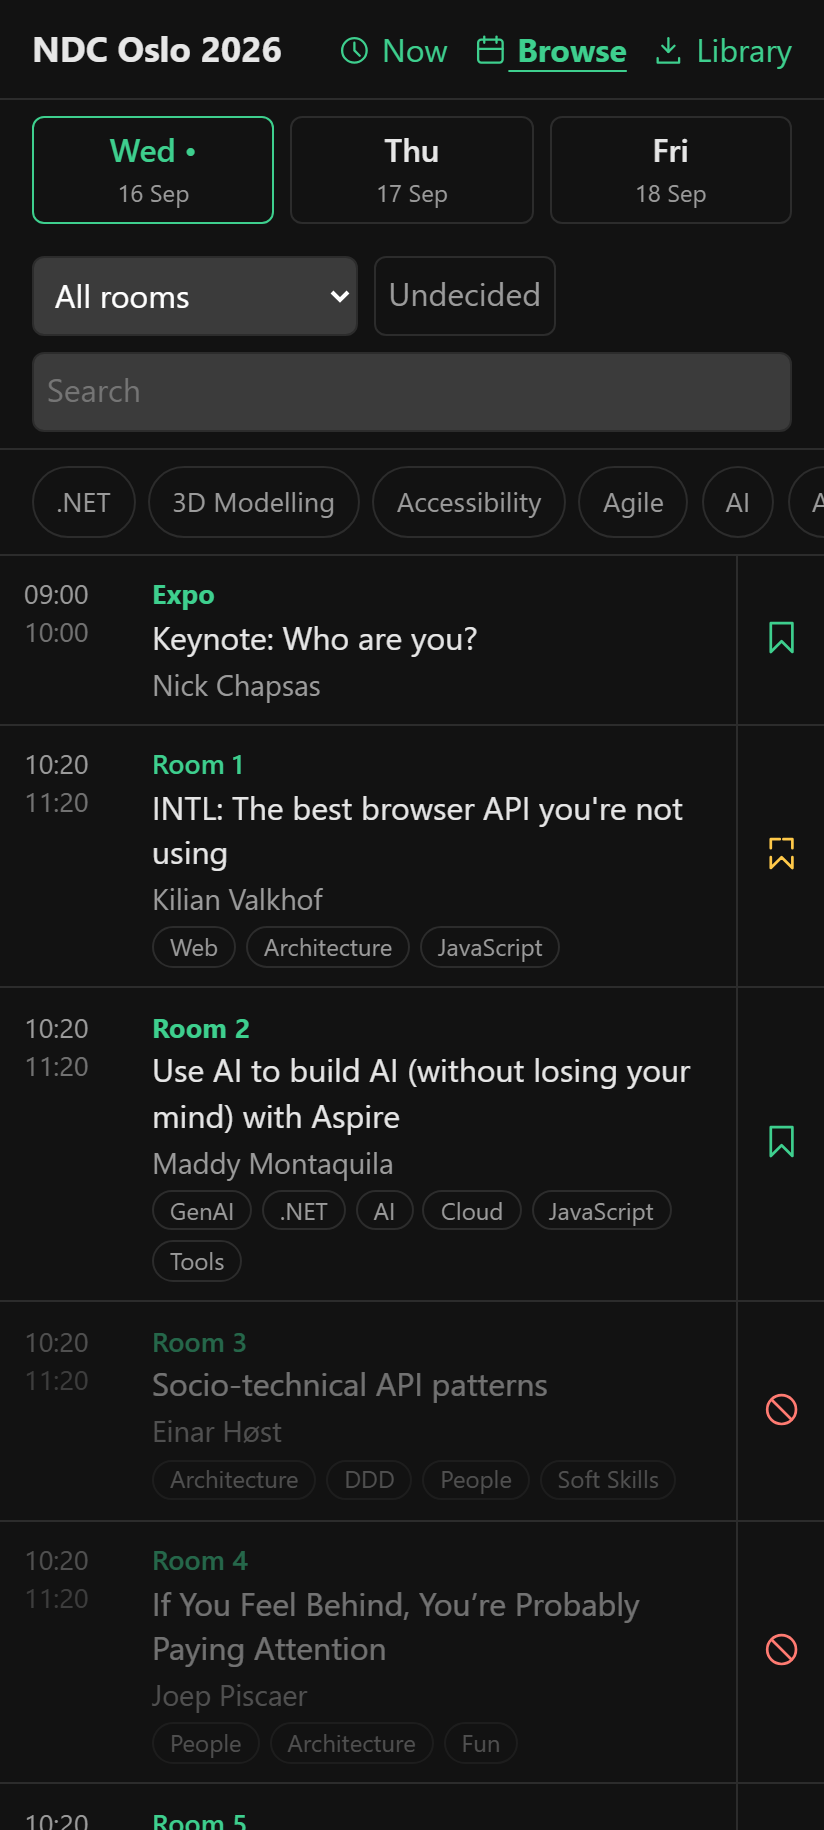
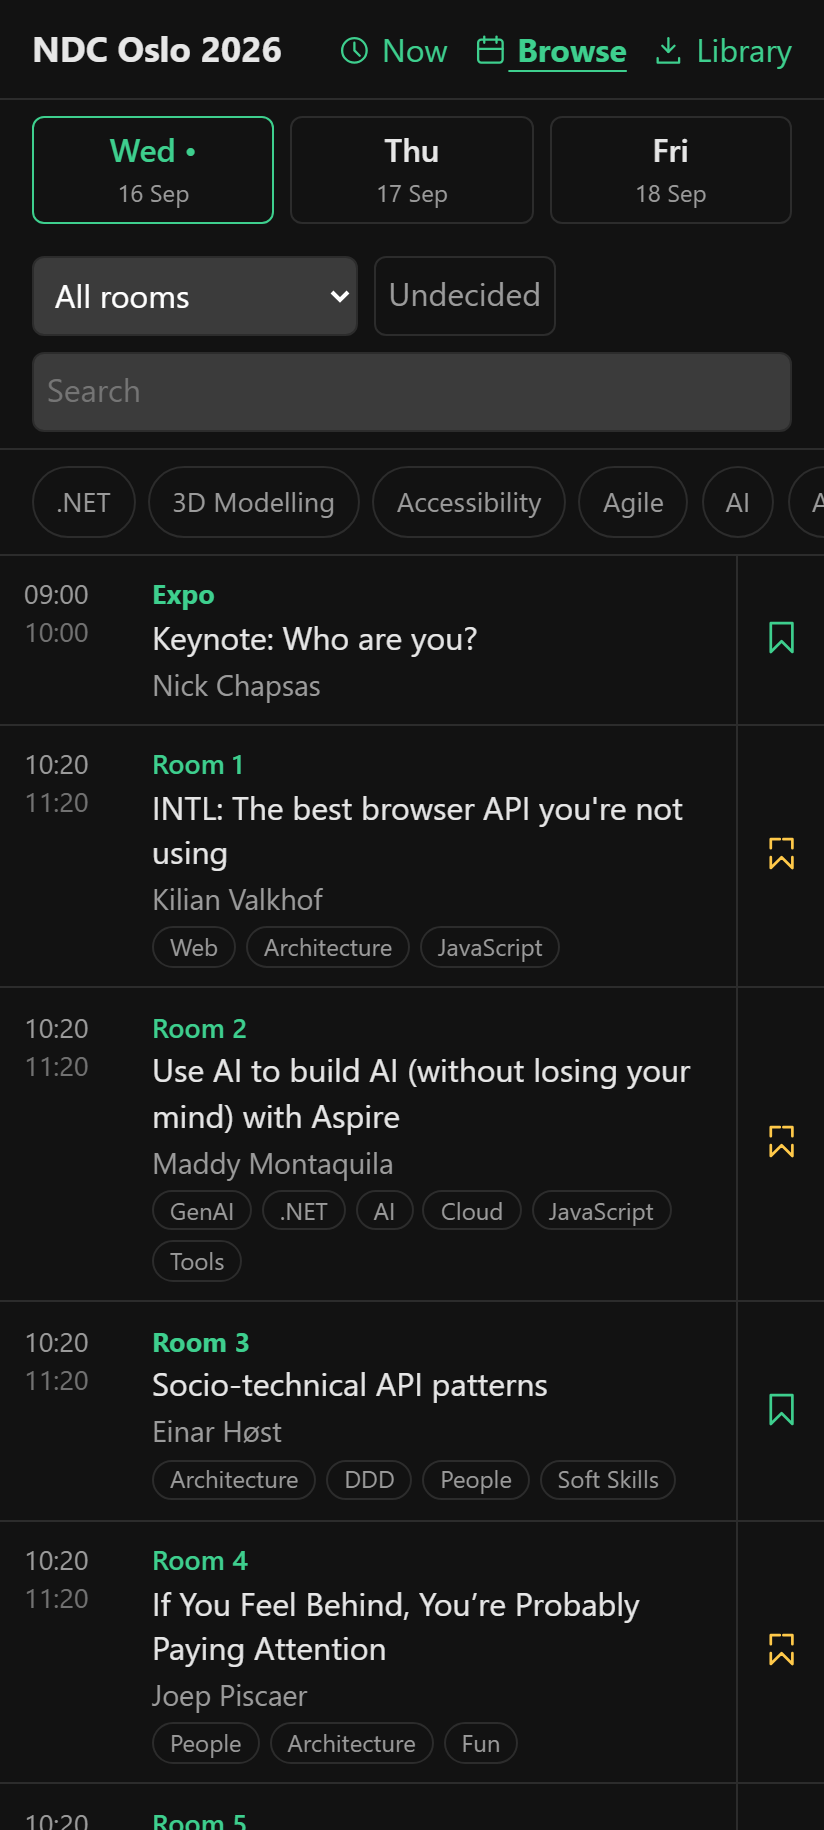
docs: README screenshots use BK's real day-1 plan; all views shown
demo-plan.js now mirrors the actual phone plan (picks per slot, maybe
counts matching the +N badges; TBA and the LLM talk avoided so the slot
view shows all four groups). Glance dark+light is the hero comparison
pair; slot (the 13:40 Non-Blocking Continuous Code Reviews slot), event
detail (same session), and browse follow the feature list; a new library
screenshot sits in the provider section. Clock frozen at 13:50 so Now =
the Non-Blocking pick.

diff --git a/tools/demo-plan.js b/tools/demo-plan.js
@@ -1,4 +1,5 @@
-// Seed a realistic NDC Oslo day-1 plan into IndexedDB for README screenshots.
+// Seed BK's real NDC Oslo day-1 plan into IndexedDB for README screenshots
+// (picks match his phone; maybe counts match the +N badges he showed).
 // Run in the app's page via tools/screenshot.mjs --init after the schedule
 // has loaded; the tool re-navigates afterwards so the app picks the plan up.
 (async () => {
@@ -12,27 +13,37 @@
   const STATES = {
     pick: [
       "Keynote: Who are you?",
-      "Use AI to build AI (without losing your mind) with Aspire",
-      "Build Skills, Not Agents",
-      "What Claude Code Can Do That You Haven't Tried",
-      "Using Microsoft Kiota to go from OpenAPI to first-class .NET client SDKs",
-      "Going Passwordless - A Practical Guide to Passkeys in ASP.NET Core",
-    ],
-    maybe: [
-      "INTL: The best browser API you're not using",
-      "What's coming next in C#",
-      "What's new in SQL Server 2025 and Azure SQL Databases",
-      "From Code to Intelligence: The Rise of the Full-Stack AI Engineer",
-      // 15:00 has maybes but no pick: a contested, undecided slot
+      "Socio-technical API patterns",
+      "CSS State Machine",
+      "Non-Blocking Continuous Code Reviews, a Case Study",
       "How We Built an Autonomous Development Workflow at Nordic Corporate Bank",
-      ".NET Telemetry in the Real World",
       "Tracking every ship in Norwegian waters - Building a data platform for The Coastal Administration",
       "Functional core, imperative shell: An architecture turned inside out",
     ],
-    avoid: [
-      "Socio-technical API patterns",
+    maybe: [
+      // 10:20 (+4)
+      "Use AI to build AI (without losing your mind) with Aspire",
+      "INTL: The best browser API you're not using",
+      "What's coming next in C#",
       "If You Feel Behind, You’re Probably Paying Attention",
-      "The .NET MAUI Community Toolkits: Three (3) Essential Libraries for Every .NET MAUI Developer",
+      // 13:40 (+4)
+      "What Claude Code Can Do That You Haven't Tried",
+      "From Code to Intelligence: The Rise of the Full-Stack AI Engineer",
+      "Types Are Worth the Typing",
+      "Let's break some WCAG rules",
+      // 15:00 (+4)
+      ".NET Telemetry in the Real World",
+      "What You Need to Know (And Why You Should Care) About AI Governance",
+      "Modern Graph Databases",
+      "Rethinking Tooltips with Interest Invokers and Popover API",
+      // 16:20 (+1)
+      "Using Microsoft Kiota to go from OpenAPI to first-class .NET client SDKs",
+      // 17:40 (+2)
+      "Going Passwordless - A Practical Guide to Passkeys in ASP.NET Core",
+      "It’s About Time! Practical examples of time zones in TypeScript",
+    ],
+    avoid: [
+      "TBA - Adam Cogan",
       "Why LLMs Suck (aka the Software Developer's Guide to Keeping Our Jobs)",
     ],
   };

diff --git a/README.md b/README.md
@@ -1,16 +1,11 @@
 # setlist
 
-A conference companion PWA optimised for one question: **where do I go
-next?** — **[try it now](https://bjornkpu.github.io/setlist/app/)**, pick a
-conference from the Library, and add it to your home screen.
-
-Deep-link any schedule with `…/app/?url=<schedule.json url>` (keep the
-trailing slash after `app` — links without it break offline).
+A conference companion PWA optimised for one question: **where do I go next?**
+**[Try it now](https://bjornkpu.github.io/setlist/app/)**, pick a conference from the Library, and add it to your home screen.
 
 <p>
-  <img src="docs/screenshots/glance-dark.png" width="270" alt="Glance view: the room you need in huge type, what's next, and your whole day below">
-  <img src="docs/screenshots/slot-dark.png" width="270" alt="Slot view: every session in one time range, grouped by your plan">
-  <img src="docs/screenshots/event-dark.png" width="270" alt="Session details with abstract, topics, links, and Avoid/Maybe/Pick buttons">
+  <img src="docs/screenshots/glance-dark.png" width="320" alt="Glance view in dark theme: the room you need in huge type, what's next, and your whole day below">
+  <img src="docs/screenshots/glance-light.png" width="320" alt="The same glance view in light theme">
 </p>
 
 ## What it does
@@ -39,7 +34,11 @@ offline.
 - Installable PWA, works offline, dark and light theme, no accounts, no
   tracking, no build step — plain HTML/CSS/JS.
 
-<img src="docs/screenshots/browse-dark.png" width="270" alt="Browse view with topic chips and plan states"> <img src="docs/screenshots/glance-light.png" width="270" alt="The glance view in light theme">
+<p>
+  <img src="docs/screenshots/slot-dark.png" width="270" alt="Slot view: every session in one time range, grouped Picked / Maybe / Everything else / Avoided">
+  <img src="docs/screenshots/event-dark.png" width="270" alt="Session details with abstract, topics, links, and Avoid/Maybe/Pick buttons">
+  <img src="docs/screenshots/browse-dark.png" width="270" alt="Browse view with day tabs, topic chips, and plan states">
+</p>
 
 ## Bring your own conference
 
@@ -77,7 +76,11 @@ regenerates every guid and silently destroys everyone's plan.
 A **provider** is just a directory with the schedules plus a generated
 `index.json`; the app's Library lists a provider's conferences, split into
 upcoming and past. This repo's `conferences/` directory, served by GitHub
-Pages, is the default provider. To host your own:
+Pages, is the default provider.
+
+<img src="docs/screenshots/library-dark.png" width="270" alt="Library view: loaded schedules, providers, and load-by-URL">
+
+To host your own:
 
 1. Put your `schedule.json` files in a directory.
 2. Generate the index:
